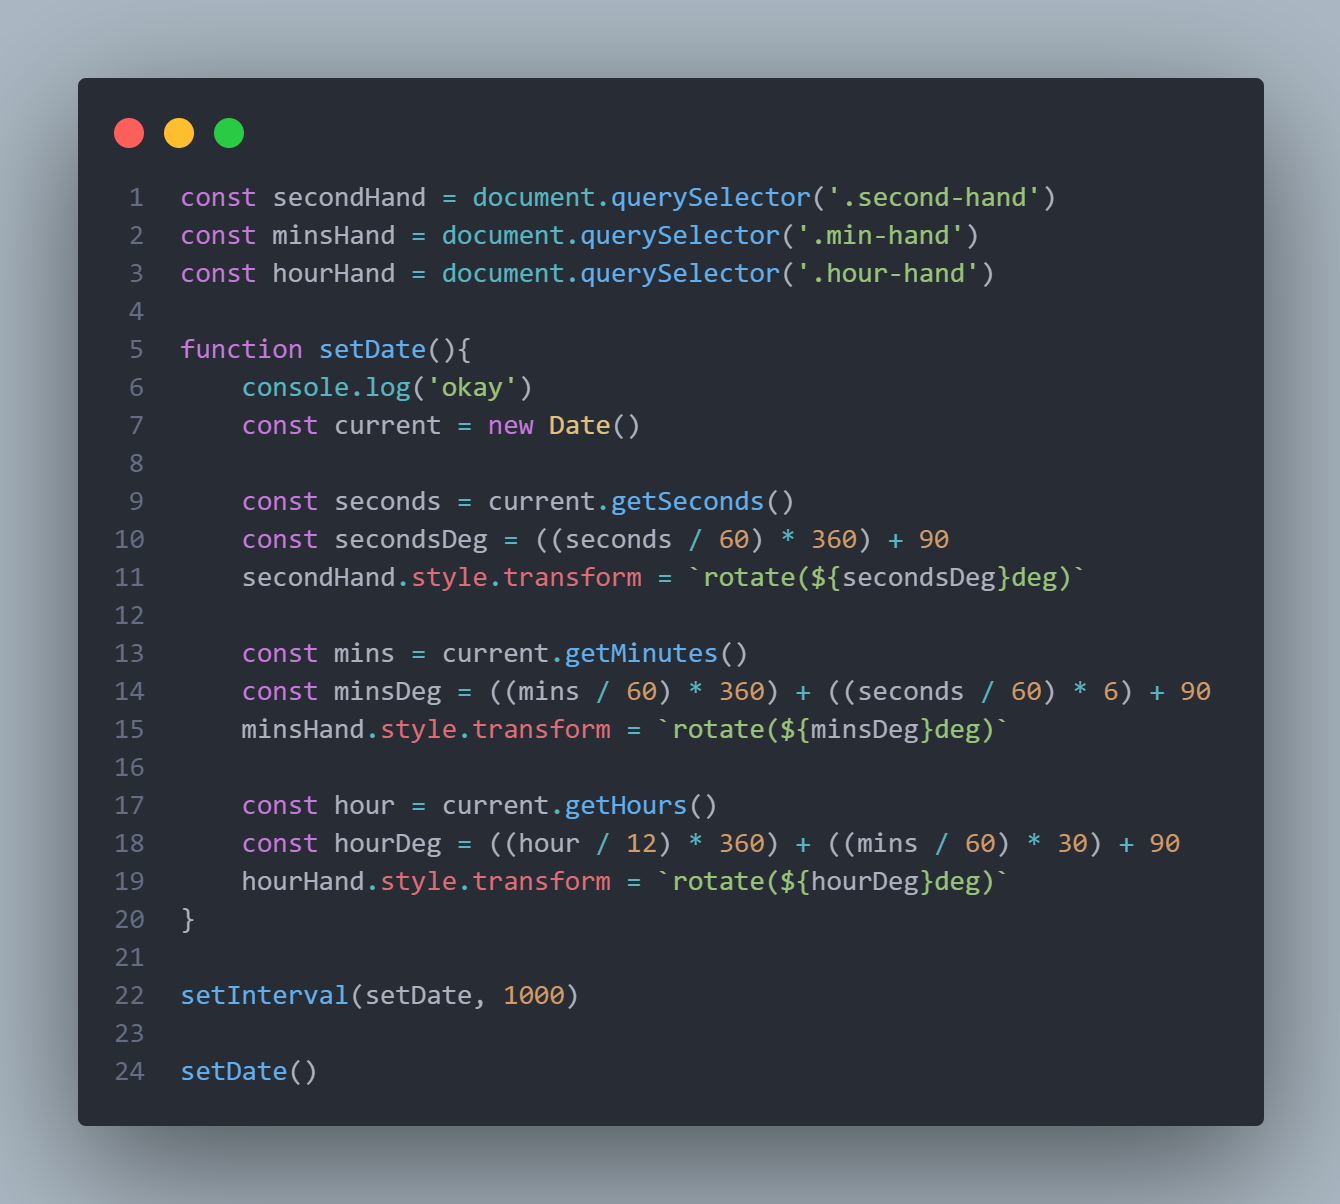
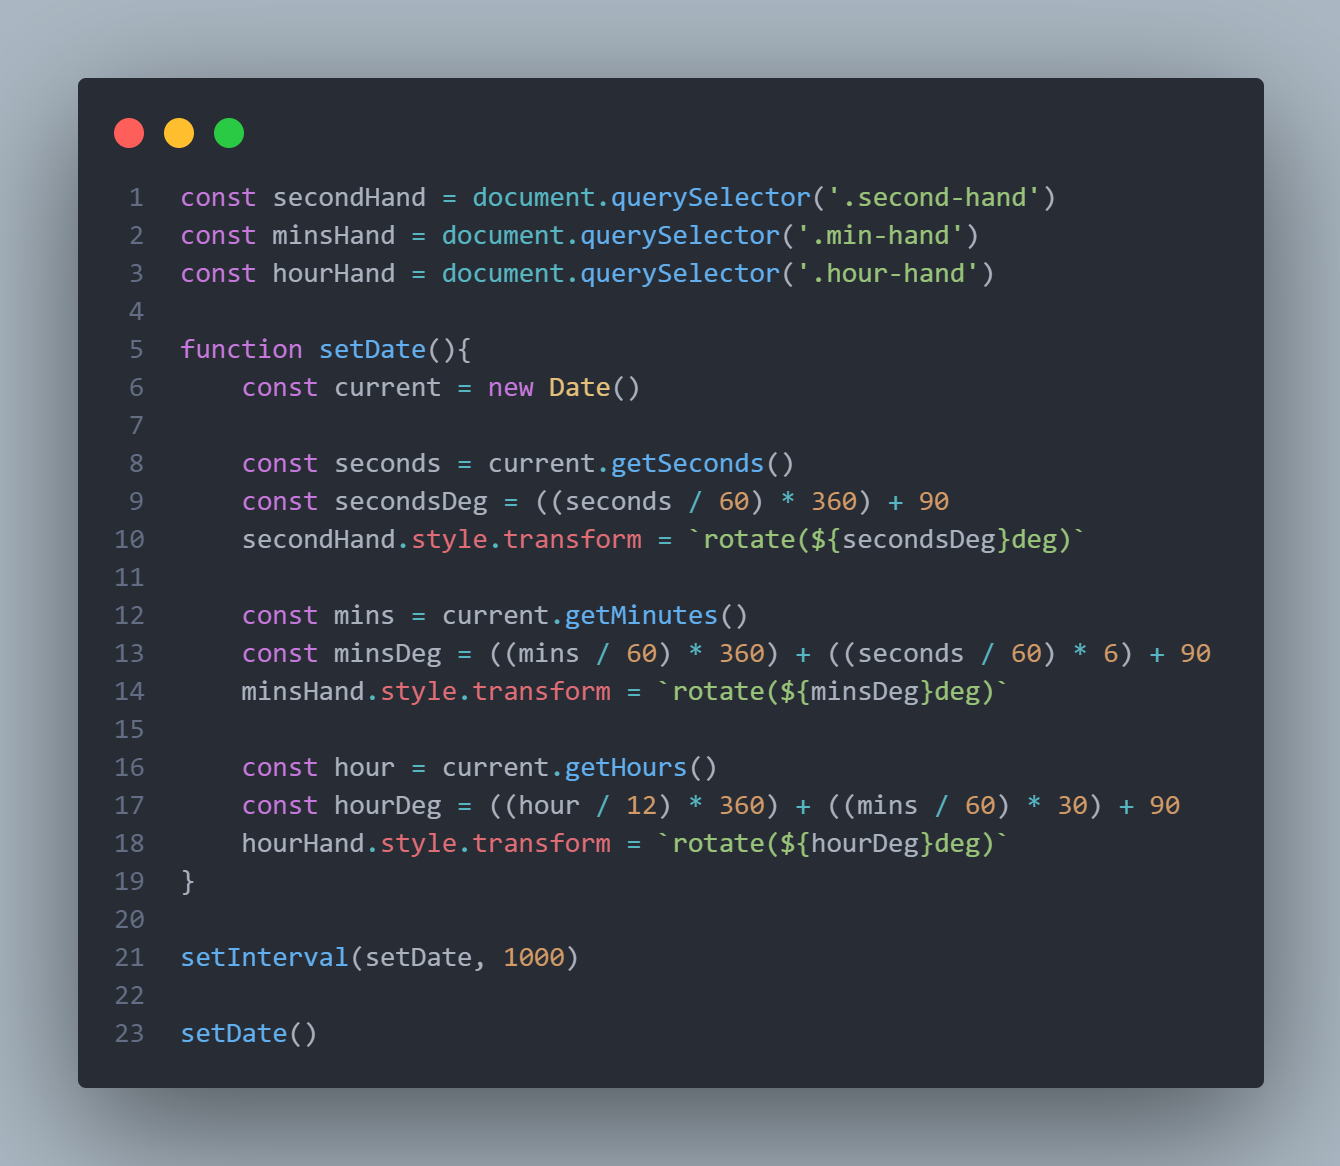
adding images, and footer, app done

diff --git a/style.css b/style.css
@@ -79,7 +79,7 @@ body{
     display: flex;
     justify-content: center;
     align-items: center;
-    transition: box-shadow 0.1s ease-in-out;
+    transition: box-shadow 0.2s ease-in-out;
 }
 
 .card:hover{
@@ -88,6 +88,23 @@ body{
 
 .card h3{
     font-size:22px;
+}
+
+footer{
+    height: 34px;
+    width: 100vw;
+    position: absolute;
+    bottom: 0;
+    background-color: var(--main-color);
+    color: #FAFAFA;
+    display: flex;
+    justify-content: center;
+    align-items: center;
+}
+
+footer h3{
+    font-size: 14px;
+    font-weight: 400;
 }
 
 .shadow-purple{
@@ -732,7 +749,7 @@ body{
         margin: 14px 0;
     }
     .title h1{
-        font-size: 34px;
+        font-size: 38px;
     }
 
    .main-cards{
@@ -769,7 +786,7 @@ body{
 
 @media screen and (max-width: 548px){
     .title h1{
-        font-size: 32px;
+        font-size: 34px;
     }
 
     .main-cards{
@@ -829,7 +846,7 @@ body{
 }
 @media screen and (max-width: 465px){
     .title h1{
-        font-size: 28px;
+        font-size: 32px;
     }
 
     .card{

diff --git a/todo.html b/todo.html
@@ -40,9 +40,8 @@
     </main>
     <div class="code">
             <h3>Code</h3>
-            <img src="./img/code.png">
-            <!-- <img src="./img/calculator-desktop.png" alt="code" class="desktop">
-            <img src="./img/calculator-mobile.png" alt="code" class="mobile"> -->
+            <img src="./img/todo-desktop.png" alt="code" class="desktop">
+            <img src="./img/todo-mobile.png" alt="code" class="mobile">
         </div>
     <script src="./todo.js"></script>
 </body>

diff --git a/todo.js b/todo.js
@@ -16,7 +16,6 @@ window.addEventListener('load', () => {
 
         const task_content_el = document.createElement('div')
         task_content_el.classList.add("content")
-        // task_content_el.innerText = task
 
         task_el.appendChild(task_content_el)
 

diff --git a/clock.js b/clock.js
@@ -3,7 +3,6 @@ const minsHand = document.querySelector('.min-hand')
 const hourHand = document.querySelector('.hour-hand')
 
 function setDate(){
-    console.log('okay')
     const current = new Date()
 
     const seconds = current.getSeconds()

diff --git a/index.html b/index.html
@@ -52,6 +52,10 @@
         </a>
        
     </main>
+
+    <footer>
+        <h3>Made by Jair Partida ⚡ 2022</h3>
+    </footer>
     
 </body>
 </html>
